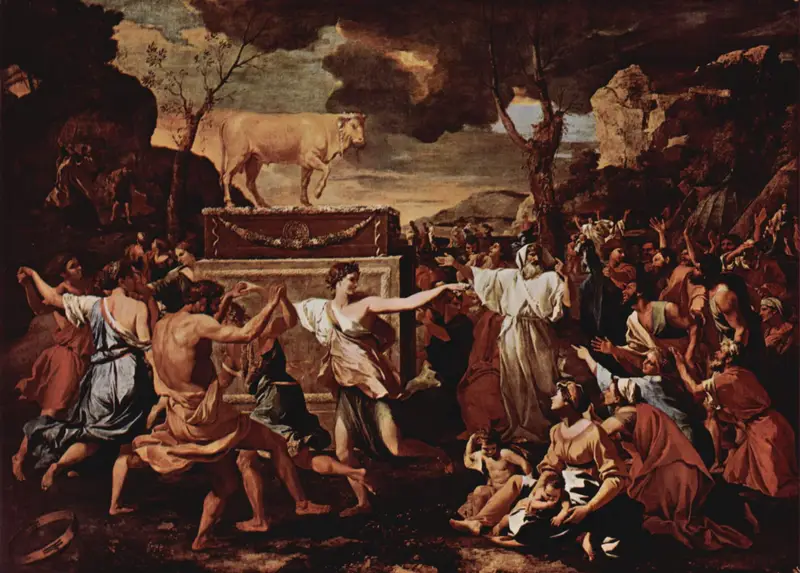
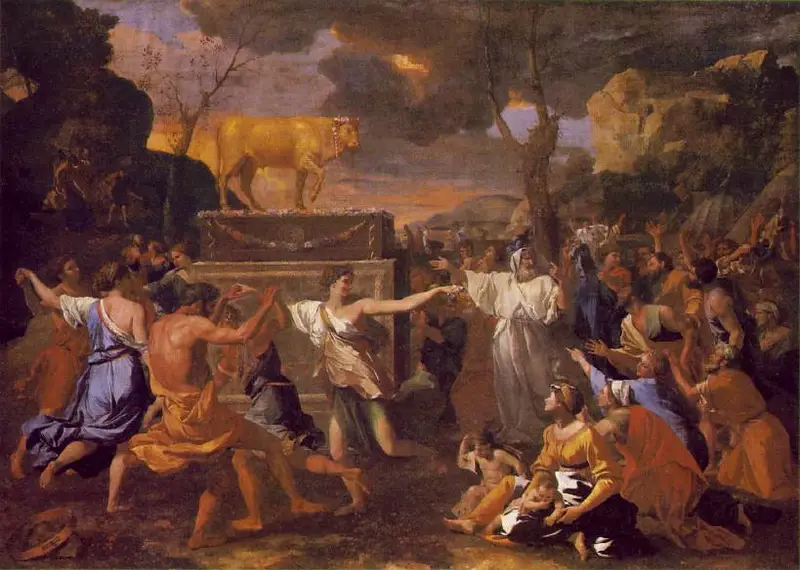
chore(art): fetch artwork [fetch-art]

diff --git a/public/art/fetch-report.md b/public/art/fetch-report.md
@@ -6,15 +6,15 @@
 - peter: File:The Denial of St. Peter - Gerard Seghers - Google Cultural Institute.jpg — Gerard Seghers — Public domain
 - paul: File:Conversion on the Way to Damascus-Caravaggio (c.1600-1).jpg — Caravaggio — Public domain
 - moses: File:Domenico Fetti - Moses before the burning bush - M.Ob.769 MNW - National Museum in Warsaw.jpg — Domenico Fetti — Public domain
-- abraham: NO MATCH (File:Tissot God's Promises to Abram.jpg)
+- abraham: File:Ontwerp voor een titelblad met drie scènes uit het leven van Abraham, RP-T-1903-A-4777.jpg — Rijksmuseum — CC0
 - jacob: File:Jakob ringt mit dem Engel - Gemäldegalerie Berlin - 5190519.jpg — Rembrandt — Public domain
 - jonah: File:Pieter Lastman - Jonah and the Whale - Google Art Project.jpg — Pieter Lastman — Public domain
 - elijah: File:Frederic, Lord Leighton - Elijah in the Wilderness - Google Art Project.jpg — Frederic Leighton — Public domain
 - samson: File:Samson and Delilah by Rubens.jpg — Peter Paul Rubens — Public domain
-- aaron: File:Nicolas Poussin - The Adoration of the Golden Calf alt.jpg — Nicolas Poussin — Public domain
-- rahab: NO MATCH ()
+- aaron: File:The adoration of the golden calf 1633-36.jpg — Nicolas Poussin — Public domain
+- rahab: File:Tissot The Harlot of Jericho and the Two Spies.jpg — James Tissot — Public domain
 - matthew: File:Caravaggio — The Calling of Saint Matthew.jpg — Gleb Simonov — CC0
-- zacchaeus: NO MATCH (File:Brooklyn Museum - Zacchaeus in the Sycamore Awaiting the Passage of Jesus (Zachée sur le sycomore attendant le passage de Jésus) - James Tissot.jpg)
+- zacchaeus: File:Brooklyn Museum - Zacchaeus in the Sycamore Awaiting the Passage of Jesus (Zachée sur le sycomore attendant le passage de Jésus) - James Tissot.jpg — James Tissot — Public domain
 - samaritan_woman: File:Carl Heinrich Bloch - Woman at the Well.jpg — Carl Bloch — Public domain
 - woman_caught_in_adultery: File:Rembrandt Christ and the Woman Taken in Adultery.jpg — Rembrandt — Public domain
 - thomas: File:Der ungläubige Thomas - Michelangelo Merisi, named Caravaggio.jpg — Caravaggio — Public domain
